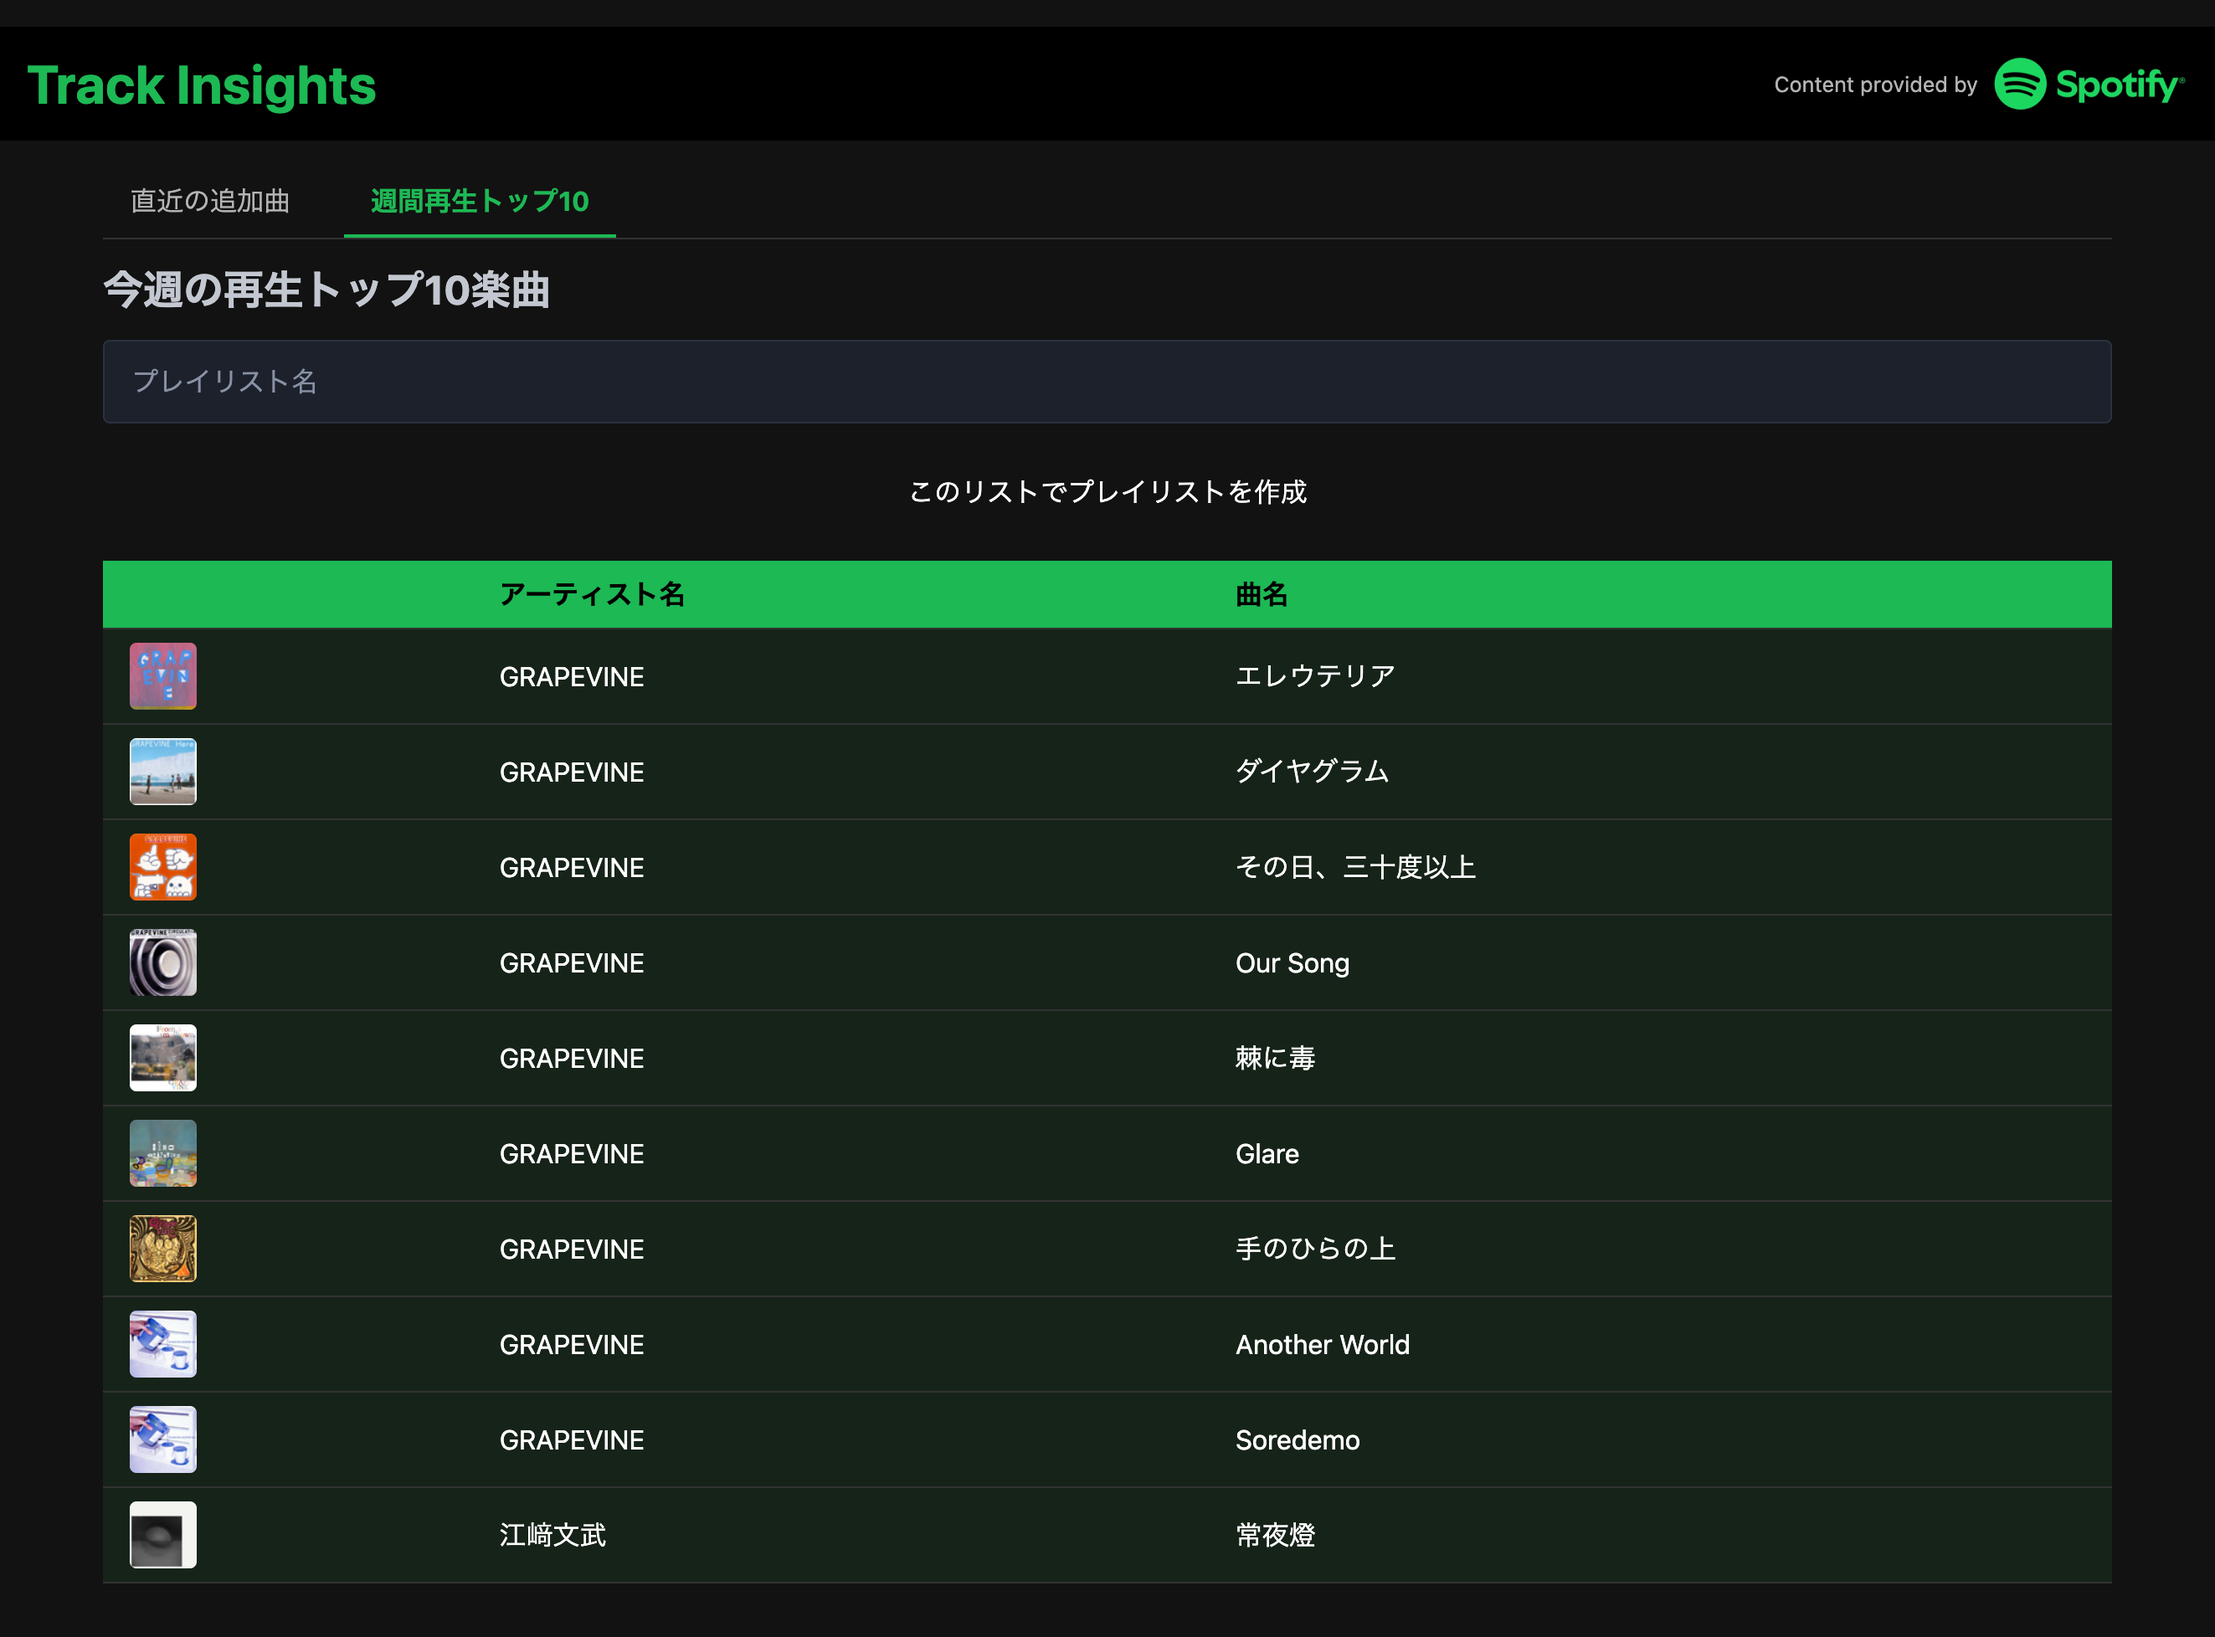
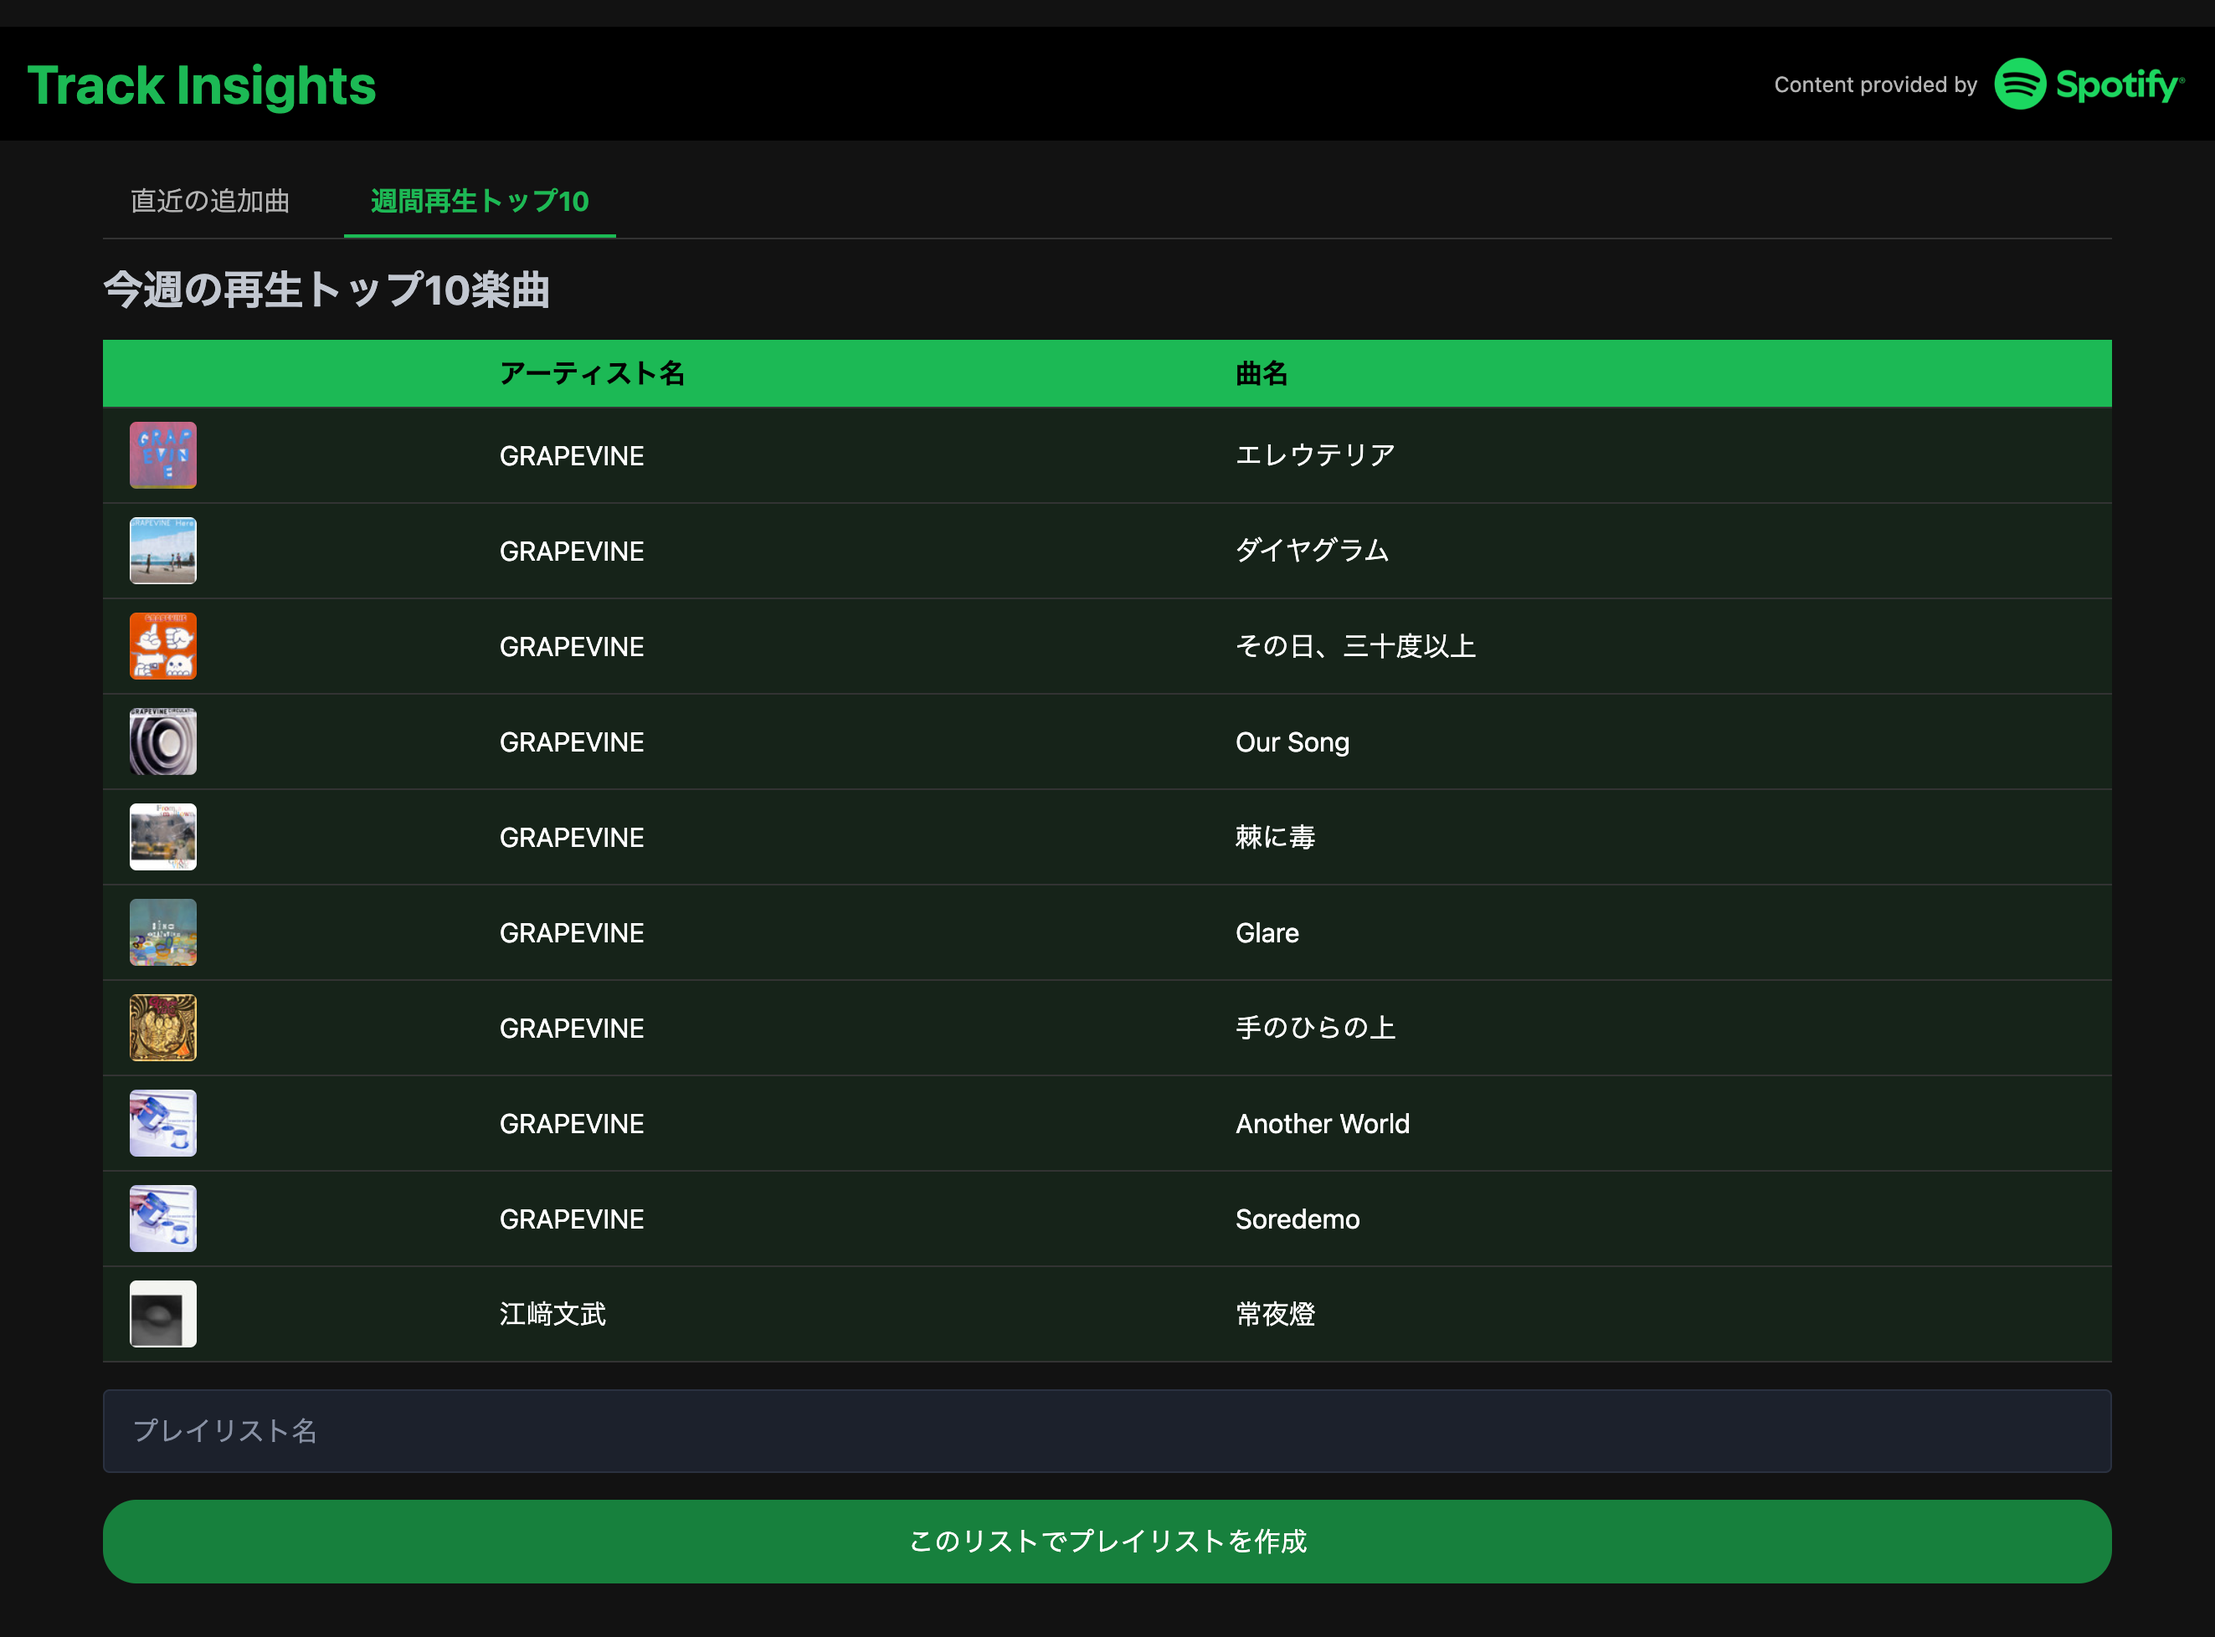
fix: restore playlist button color and move form below the track list
- Define the missing --primary-dark CSS variable
- Place the playlist creation form after the top tracks table
- Update screenshot

Changed region(s): [[0.031, 0.1871, 0.9607, 0.9668]]

diff --git a/src/track_element_app/gui/app.py b/src/track_element_app/gui/app.py
@@ -40,6 +40,7 @@ SPOTIFY_URL = "https://open.spotify.com/"
 css = """
 :root {
     --primary: #1DB954;
+    --primary-dark: #15803D;
     --background-color: #121212;
     --color: #FFFFFF;
 }
@@ -172,6 +173,7 @@ def get_top_tracks() -> Div:
 
         return Div(
             H3("今週の再生トップ10楽曲"),
+            Table(Thead(Tr(Th(""), Th("アーティスト名"), Th("曲名"))), Tbody(*ranking_items)),
             # プレイリスト作成フォーム
             Form(
                 Input(type="hidden", name="track_ids_str", value=track_ids),
@@ -180,7 +182,6 @@ def get_top_tracks() -> Div:
                 hx_post="/save_playlist",
                 hx_target="#result-area",
             ),
-            Table(Thead(Tr(Th(""), Th("アーティスト名"), Th("曲名"))), Tbody(*ranking_items)),
             cls="analysis-results",
         )
     except Exception as err:
